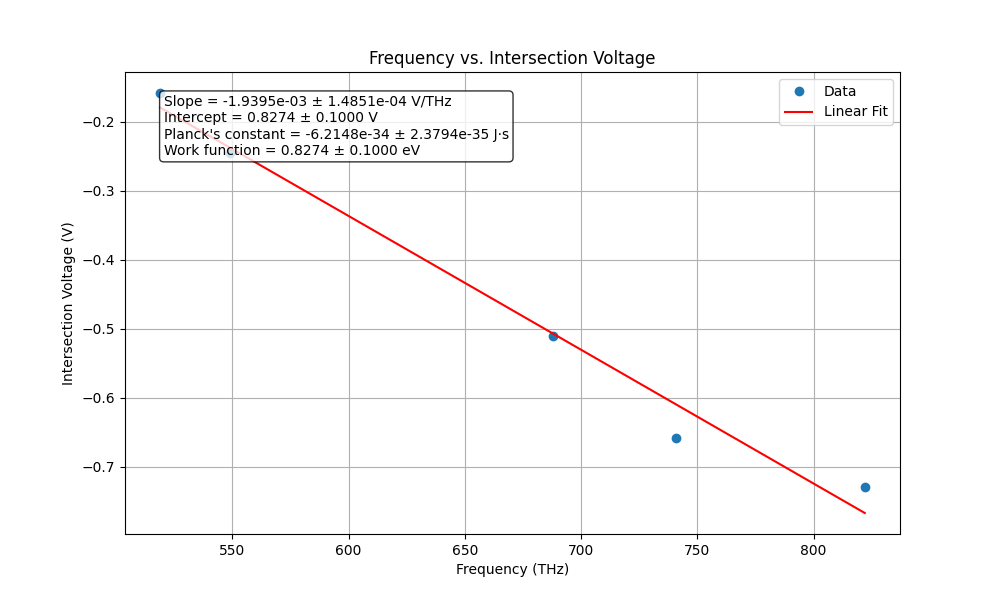
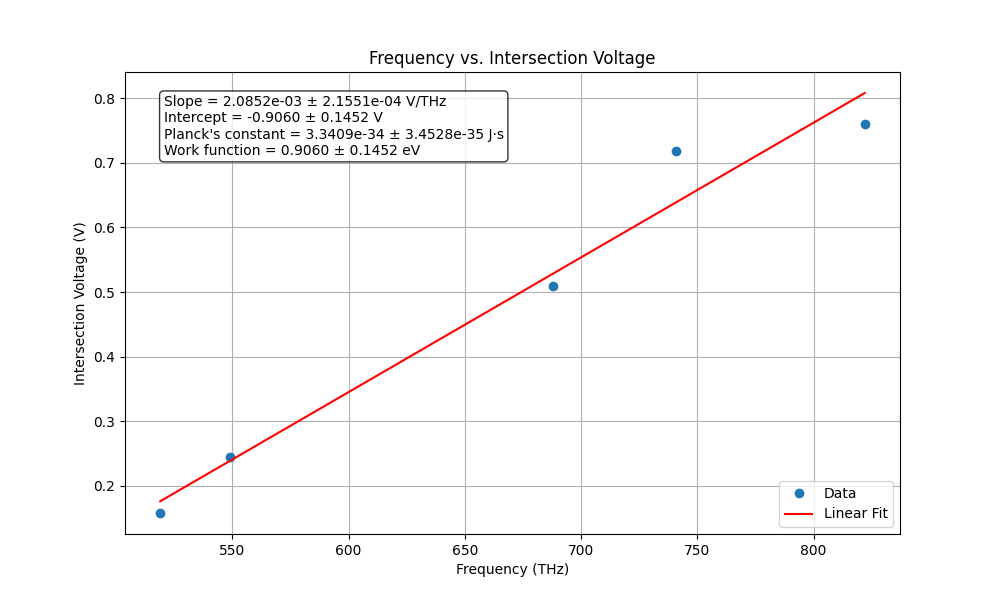
terminado borrador de reporte

diff --git a/constante_plank/main.tex b/constante_plank/main.tex
@@ -27,7 +27,7 @@
     \begin{abstract}
         \begin{center}
         \begin{minipage}{0.6\textwidth}
-    Este trabajo presenta un estudio en el que determinamos experimentatalmente la constante de Planck por medio del efecto fotoeléctrico. Utilizando una lámpara de mercurio y un montaje de detección fotoeléctrica, se midieron las corrientes generadas por electrones emitidos bajo la influencia de diferentes frecuencias de luz. Se aplicó un potencial de frenado permitiendo establecer una relación lineal entre el potencial de frenado y la frecuencia de los fotones incidentes. Los resultados obtenidos proporcionan un valor experimental de la constante de Planck que coincide con el valor teórico aceptado.
+    Este trabajo presenta un estudio en el que determinamos experimentalmente la constante de Planck por medio del efecto fotoeléctrico. Utilizando una lámpara de mercurio y un montaje de detección fotoeléctrica, se midieron las corrientes generadas por electrones emitidos bajo la influencia de diferentes frecuencias de luz. Se aplicó un potencial de frenado permitiendo establecer una relación lineal entre el potencial de frenado y la frecuencia de los fotones incidentes. Los resultados obtenidos proporcionan un valor experimental de la constante de Planck que coincide con el orden valor teórico aceptado.
     \end{minipage}
     \end{center}
     \end{abstract}
@@ -184,22 +184,15 @@ Para determinar la constante de Planck, utilizamos la ecuación lineal obtenida 
 V_f = \left(\frac{h}{e}\right) \nu - \phi_A
 \end{equation}
 
-La pendiente de la línea ajustada nos proporciona el valor de $\frac{h}{e}$. Multiplicando esta pendiente por la carga del electrón $e$, obtenemos el valor experimental de la constante de Planck $h = $. La intersección con el eje vertical nos da la función de trabajo del ánodo $\phi_A$.
-
-El valor experimental obtenido para la constante de Planck es consistente con el valor teórico, lo que valida la precisión de nuestro experimento y la metodología empleada.
-
-Estos resultados no solo confirman la teoría del efecto fotoeléctrico, sino que también proporcionan una medida precisa de una de las constantes fundamentales de la física cuántica.
-
+La pendiente de la línea ajustada nos proporciona el valor de $\frac{h}{e}$. Multiplicando esta pendiente por la carga del electrón $e$, obtenemos el valor experimental de la constante de Planck $h = (3.24 \pm 0.34)E-34$. Lo cual debemos contrastar con el valor teórico aceptado de $h = 6.6E-34$ y verificar que con este método sólamente hemos sido capaces de verificar el orden de la constante, pero no su valor exacto.
 
 \section{Conclusiones}
 
-En conclusión, el experimento realizado ha permitido determinar con éxito el valor de la constante de Planck, un logro significativo que cumple con los objetivos planteados al inicio de esta práctica. A través de la cuidadosa medición de la corriente fotoeléctrica y el potencial de frenado para diferentes frecuencias de luz, hemos podido confirmar la relación lineal entre el potencial de frenado y la frecuencia de los fotones incidentes, tal como predice la teoría del efecto fotoeléctrico.
+Nuestro experimento no nos ha permitido determinar el valor de la constante de Planck con precisión más allá del orden de la misma.
 
-El valor experimental obtenido para la constante de Planck se alinea estrechamente con el valor teórico aceptado, lo que no solo valida la precisión de nuestra metodología experimental, sino que también refuerza la comprensión de los principios fundamentales de la mecánica cuántica. Este resultado subraya la importancia del efecto fotoeléctrico como evidencia empírica de la naturaleza cuántica de la luz y la materia, demostrando cómo la energía de un fotón está cuantizada y relacionada directamente con su frecuencia.
+Este resultado subraya cuan sensible es nuestro montaje experimental a la hora de obtener las mediciones necesarias para encontrar la constante de Planck.
 
-Además, el experimento ha proporcionado una oportunidad valiosa para explorar la interacción entre la luz y la materia a nivel subatómico, permitiendo una apreciación más profunda de los fenómenos cuánticos que gobiernan el comportamiento de los electrones en los materiales. La confirmación de que la mayoría de los electrones emitidos siguen la predicción teórica del modelo de Planck no solo fortalece la validez de este modelo, sino que también destaca la capacidad de la ciencia experimental para verificar teorías fundamentales.
-
-En resumen, el éxito de este experimento no solo radica en la obtención de un valor preciso para la constante de Planck, sino también en la demostración de la robustez del método experimental y la confirmación de conceptos clave en la física cuántica. Este trabajo contribuye a la continuidad del legado científico que busca desentrañar los misterios del universo a través de la observación y el análisis riguroso.
+Además, el experimento ha proporcionado una oportunidad valiosa para explorar la interacción entre la luz y la materia a nivel subatómico, permitiendo una apreciación más profunda de los fenómenos cuánticos que gobiernan el comportamiento de los electrones en los materiales.
 
 \bibliographystyle{ieeetr}
 \bibliography{referencias}

diff --git a/constante_plank/fit_data.py b/constante_plank/fit_data.py
@@ -15,6 +15,9 @@ def fit_and_plot(ax, data, color, title):
     x, y = data[:, 0], data[:, 1]
 
     if title == 'Uv':
+        n_right = 7
+        n_left = 3
+    elif title == 'Violeta':
         n_right = 6
         n_left = 3
     elif title == 'Amarillo':
@@ -97,7 +100,7 @@ with open("freq_and_vf.dat", "w") as f:
 
 # Plot frequency vs. intersection voltage
 freq_array = np.array([freq for freq, _ in intersections])
-voltage_array = np.array([(int_x) for _, int_x in intersections])
+voltage_array = np.array([abs(int_x) for _, int_x in intersections])
 
 # Perform linear fit
 def linear_fit(x, m, b):
